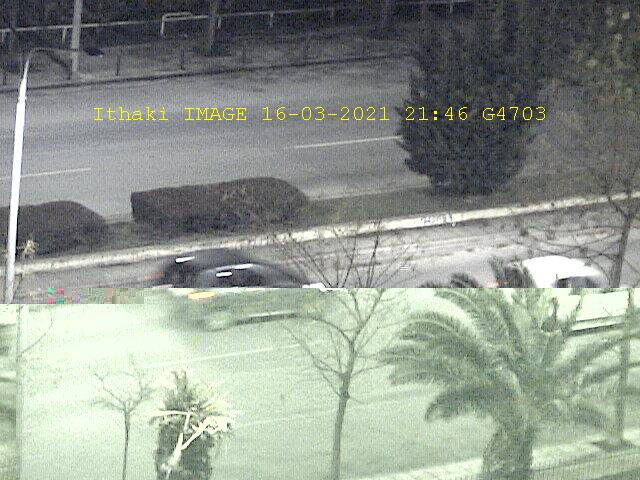
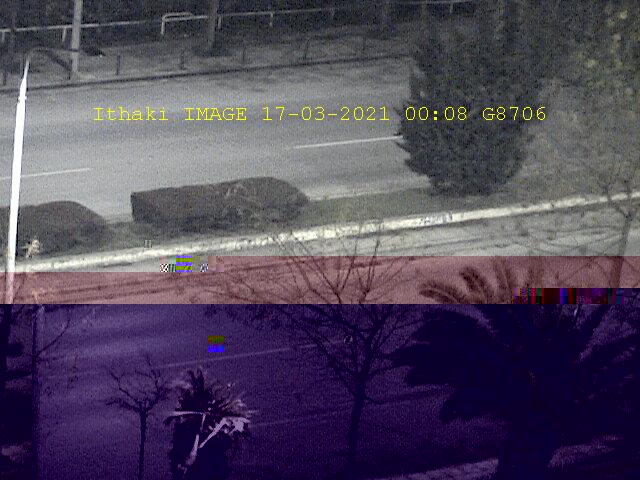
Fix bug image and change breaking sequence

diff --git a/src/Echo.java b/src/Echo.java
@@ -4,37 +4,71 @@ import ithakimodem.*;
 public class Echo {
 
   /**
-   * Echo packet contain time info
+   * Echo packet contain info dependent of the request code.
+   *
+   * Stop communication when detect "PSTOP"
    *
    * @param modem The virtual opened modem
-   * @param numPackets The requested number of echo time packets
+   * @param code Echo request code
    */
-  public static void time(Modem modem, String code, int numPackets) {
-    System.out.print("Echo application");
+  public static void pstop(Modem modem, String code) {
+    // System.out.println("Echo application");
 
+    char first, second = ' ';
+
+    modem.write(code.getBytes());
+    first = (char)modem.read();
+    System.out.print(first);
+
+    while (true) {
+      try {
+        second = (char)modem.read();
+        System.out.print(second);
+        Thread.sleep(10);
+
+        // all the echo packets ends to "PSTOP"
+        // check if message ending "OP" (cheat yep) to avoid waiting for
+        // breaking -1 that lags the communication
+        if (first == 'O' && second == 'P')
+          break;
+
+        first = second;
+
+      } catch (Exception x) {
+        System.out.println(x);
+      }
+    }
+    System.out.println();
+  }
+
+  /**
+   * Stop communication when -1 returns
+   *
+   * @param modem
+   * @param code
+   */
+  public static void generic(Modem modem, String code) {
     final int finishReadingFlag = -1;
 
     int returnValueModem = 0;
     char returnCharModem = ' ';
 
-    for (int i = 0; i < numPackets; i++) {
-      modem.write(code.getBytes());
-      while (true) {
-        try {
-          returnValueModem = modem.read();
-          returnCharModem = (char)returnValueModem;
+    modem.write(code.getBytes());
+    while (true) {
+      try {
+        returnValueModem = modem.read();
+        returnCharModem = (char)returnValueModem;
 
-          System.out.print(returnCharModem);
-          Thread.sleep(10);
+        System.out.print(returnCharModem);
+        Thread.sleep(10);
 
-          // check for breaking flag
-          if (returnValueModem == finishReadingFlag)
-            break;
-        } catch (Exception x) {
-          System.out.println(x);
-        }
+        // check for breaking flag
+        if (returnValueModem == finishReadingFlag)
+          break;
+      } catch (Exception x) {
+        System.out.println(x);
       }
-      System.out.println();
     }
+    System.out.println();
   }
 }

diff --git a/src/Image.java b/src/Image.java
@@ -5,22 +5,28 @@ import java.io.File;
 import java.io.FileOutputStream;
 
 public class Image {
+  /**
+   * Create image file. The breaking flag to stop reading is the delimiter
+   * "0xFFD9"
+   *
+   * @param modem The virtual opened modem
+   * @param code Image request code
+   */
   public static void get(Modem modem, String code) {
     System.out.println("Image application");
 
     ByteArrayOutputStream buffer = new ByteArrayOutputStream();
     int returnValueModem = 0;
     byte first, second;
-
     long tic = System.currentTimeMillis();
 
     modem.write(code.getBytes());
+    returnValueModem = modem.read();
+    first = int0(returnValueModem);
+    buffer.write(first);
+
     while (true) {
       try {
-        returnValueModem = modem.read();
-        first = int0(returnValueModem);
-        buffer.write(first);
-
         returnValueModem = modem.read();
         second = int0(returnValueModem);
         buffer.write(second);
@@ -31,6 +37,9 @@ public class Image {
         if ((String.format("%02X", first).equals("FF")) &&
             (String.format("%02X", second)).equals("D9"))
           break;
+
+        first = second;
+
       } catch (Exception x) {
         System.out.println(x);
       }
@@ -48,7 +57,7 @@ public class Image {
 
     long toc = System.currentTimeMillis();
     System.out.print("Total time creating image: " + (toc - tic) / 1000.0 +
-                     " (s)");
+                     " (s)\n");
   }
 
   /**

diff --git a/src/UserApplication.java b/src/UserApplication.java
@@ -15,23 +15,35 @@ class UserApplication {
 
     // Request codes
 
-    String echoCode = "E5365\r";
-    String imageWithErrorCode = "E0680\r";
-    String imageNoErrorCode = "G4703\r";
-    String gpsCode = "E0680\r";
-    String ackCode = "\r";
-    String nackCode = "\r";
+    String echoCode = "E4093\r";
+    String imageNoErrorCode = "M9420\r";
+    String imageWithErrorCode = "G8706\r";
+    String gpsCode = "P8315\r";
+    String ackCode = "Q7620\r";
+    String nackCode = "R1577\r";
 
     // applications
 
-    // int numPackets = 5;
-    // Echo.time(modem, echoCode, numPackets);
+    int numPackets = 5;
+    for (int i = 0; i < numPackets; i++) {
+      System.out.print("Packet No" + i + ": ");
 
-    Image.get(modem, imageNoErrorCode);
+      long tic = System.currentTimeMillis();
+      Echo.pstop(modem, echoCode);
+      long toc = System.currentTimeMillis();
+
+      System.out.println("Total time: " + (toc - tic) / 1000.0 + " (s)\n");
+    }
+
+    // Echo.generic(modem, echoCode);
+    // Echo.generic(modem, gpsCode);
+    // Echo.generic(modem, ackCode);
+    // Echo.generic(modem, nackCode);
+    // Image.get(modem, imageNoErrorCode);
+    Image.get(modem, imageWithErrorCode);
 
     // testModem(modem);
 
-    System.out.println();
     modem.close();
   }
 
